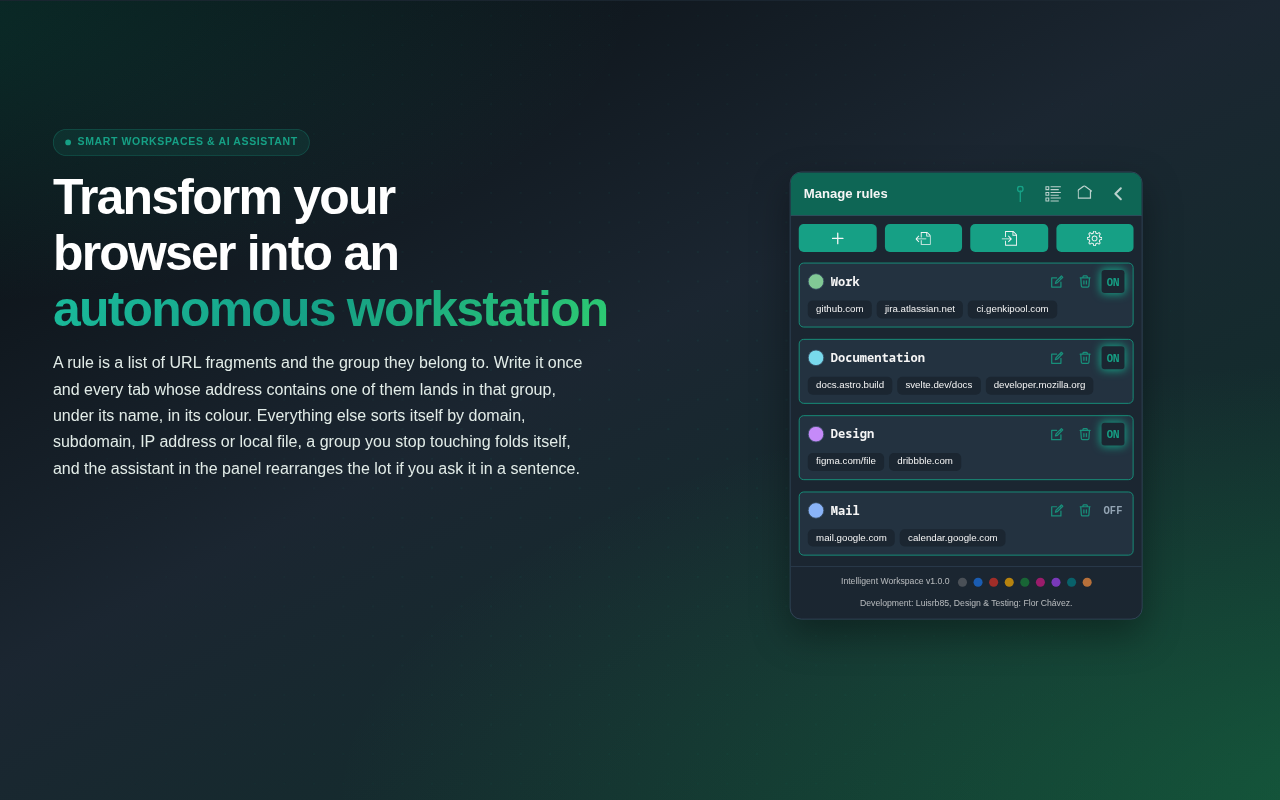
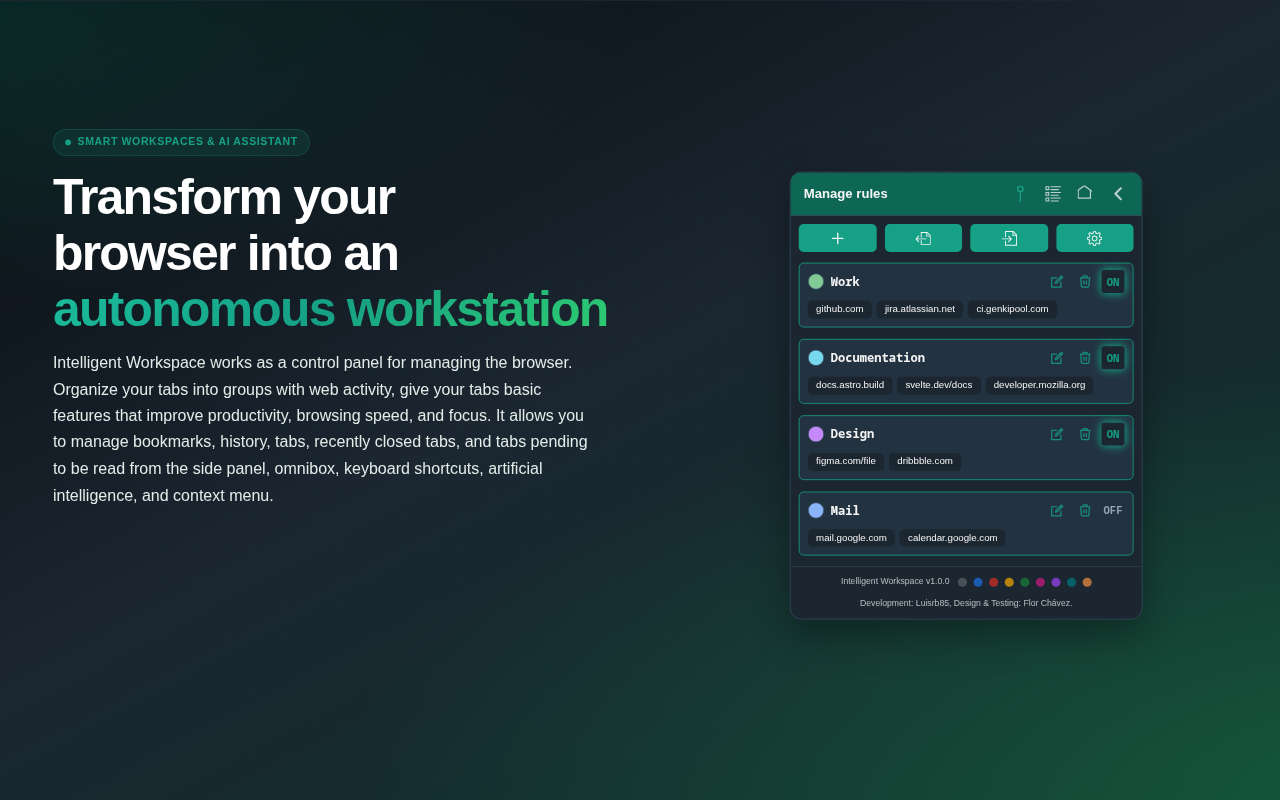
refactor(copy): actualizar descripción del primer hero y capturas de la tienda

Changed region(s): [[0.0312, 0.4375, 0.4688, 0.625]]

diff --git a/src/i18n/ui.ts b/src/i18n/ui.ts
@@ -38,7 +38,7 @@ export const ui = {
         'hero.slide1.line1': 'Transform your browser into an',
         'hero.slide1.line2': 'autonomous workstation',
         'hero.slide1.lede':
-            'A rule is a list of URL fragments and the group they belong to. Write it once and every tab whose address contains one of them lands in that group, under its name, in its colour. Everything else sorts itself by domain, subdomain, IP address or local file, a group you stop touching folds itself, and the assistant in the panel rearranges the lot if you ask it in a sentence.',
+            'Intelligent Workspace works as a control panel for managing the browser. Organize your tabs into groups with web activity, give your tabs basic features that improve productivity, browsing speed, and focus. It allows you to manage bookmarks, history, tabs, recently closed tabs, and tabs pending to be read from the side panel, omnibox, keyboard shortcuts, artificial intelligence, and context menu.',
         'hero.slide1.tag': 'Smart Workspaces & AI Assistant',
 
         'hero.slide2.line1': 'Universal Omnibar search and',
@@ -1234,7 +1234,7 @@ export const ui = {
         'hero.slide1.line1': 'Transforma tu navegador en una',
         'hero.slide1.line2': 'estación de trabajo autónoma',
         'hero.slide1.lede':
-            'Una regla es una lista de fragmentos de URL y el grupo al que pertenecen. La escribes una vez y cada pestaña cuya dirección contenga uno de ellos cae en ese grupo, con su nombre y su color. Lo demás se ordena solo por dominio, subdominio, dirección IP o archivo local, el grupo que dejas de tocar se pliega, y el asistente del panel te lo reorganiza todo si se lo pides en una frase.',
+            'Intelligent Workspace funciona como un panel de control para gestionar el navegador. Organiza tus pestañas en grupos con actividad web, dota a tus pestañas de funciones básicas que mejoran la productividad, la velocidad de navegación y el foco. Te permite gestionar marcadores, historial, pestañas, pestañas cerradas recientemente y pestañas pendientes de leer desde el panel lateral, el omnibox, atajos de teclado, inteligencia artificial y el menú contextual.',
         'hero.slide1.tag': 'Espacios Inteligentes y Asistente IA',
 
         'hero.slide2.line1': 'Búsqueda universal Omnibar y',
